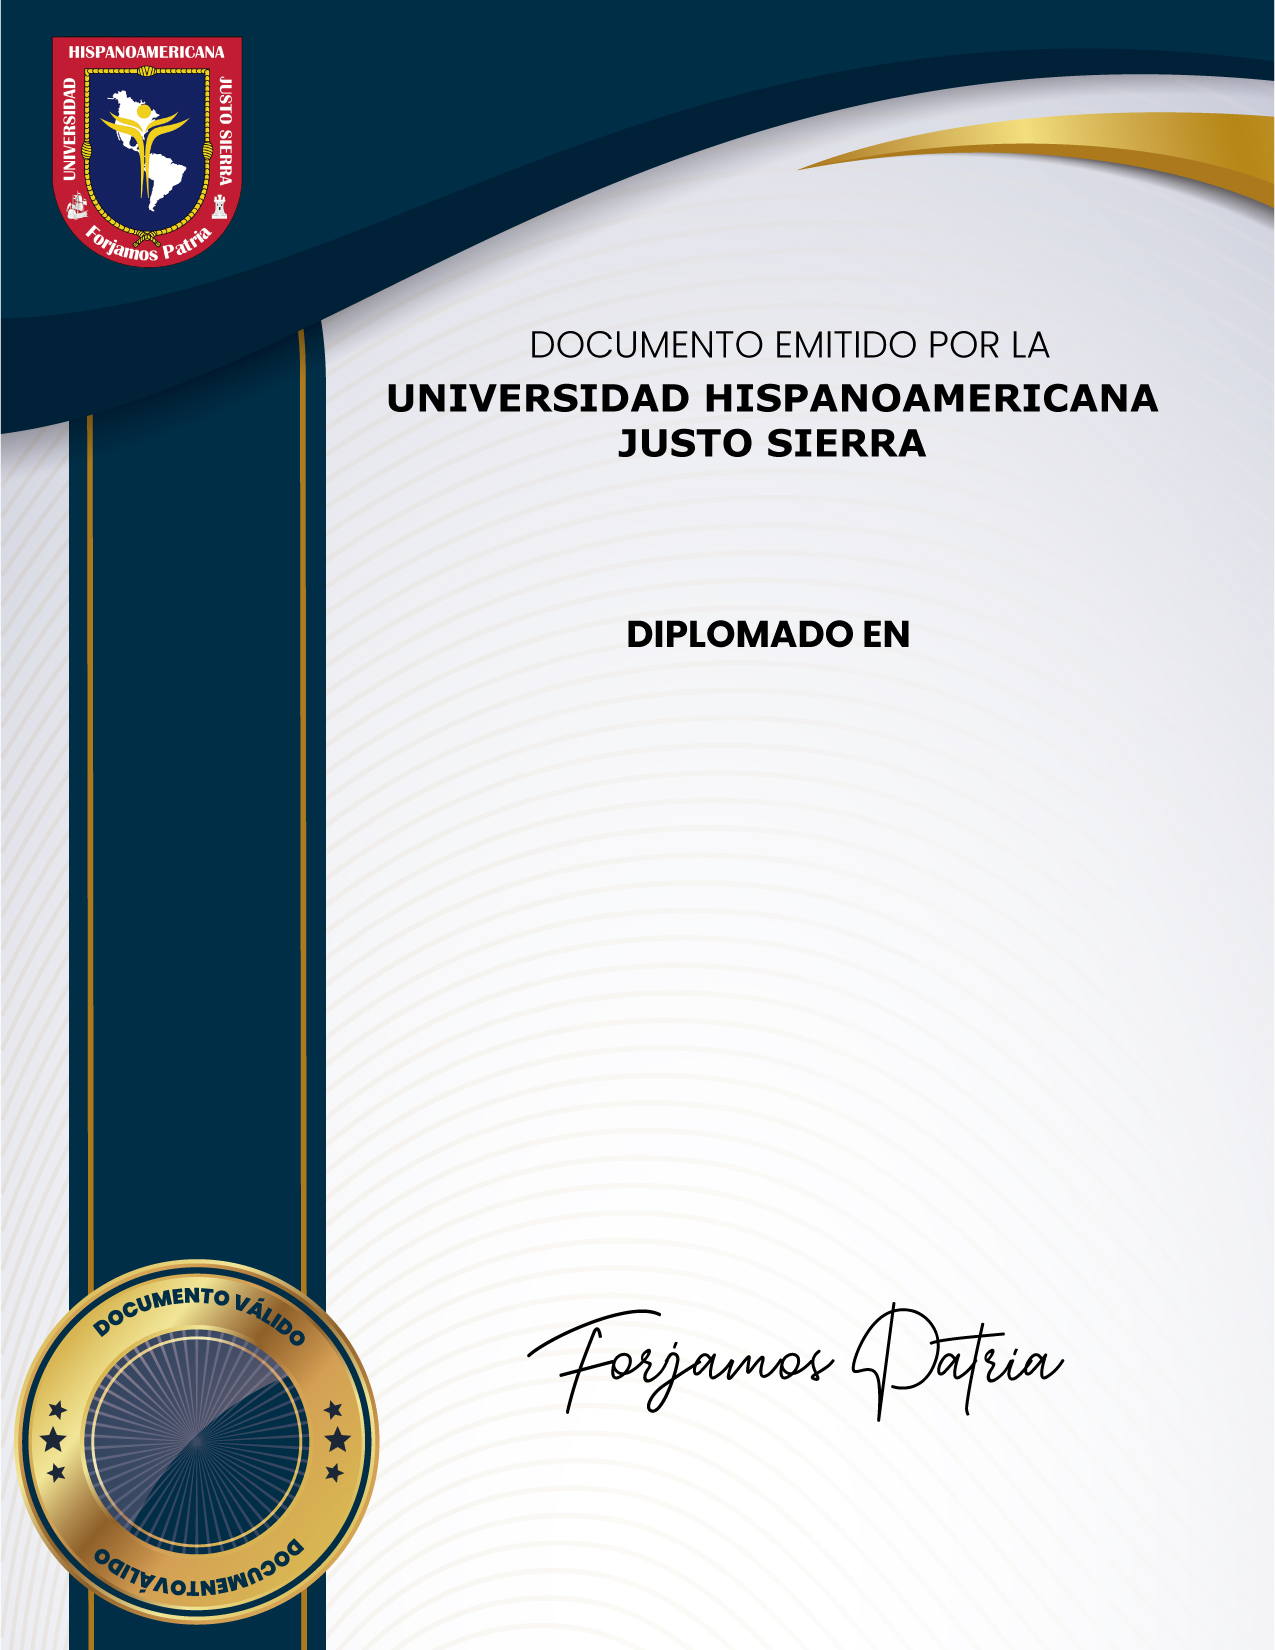
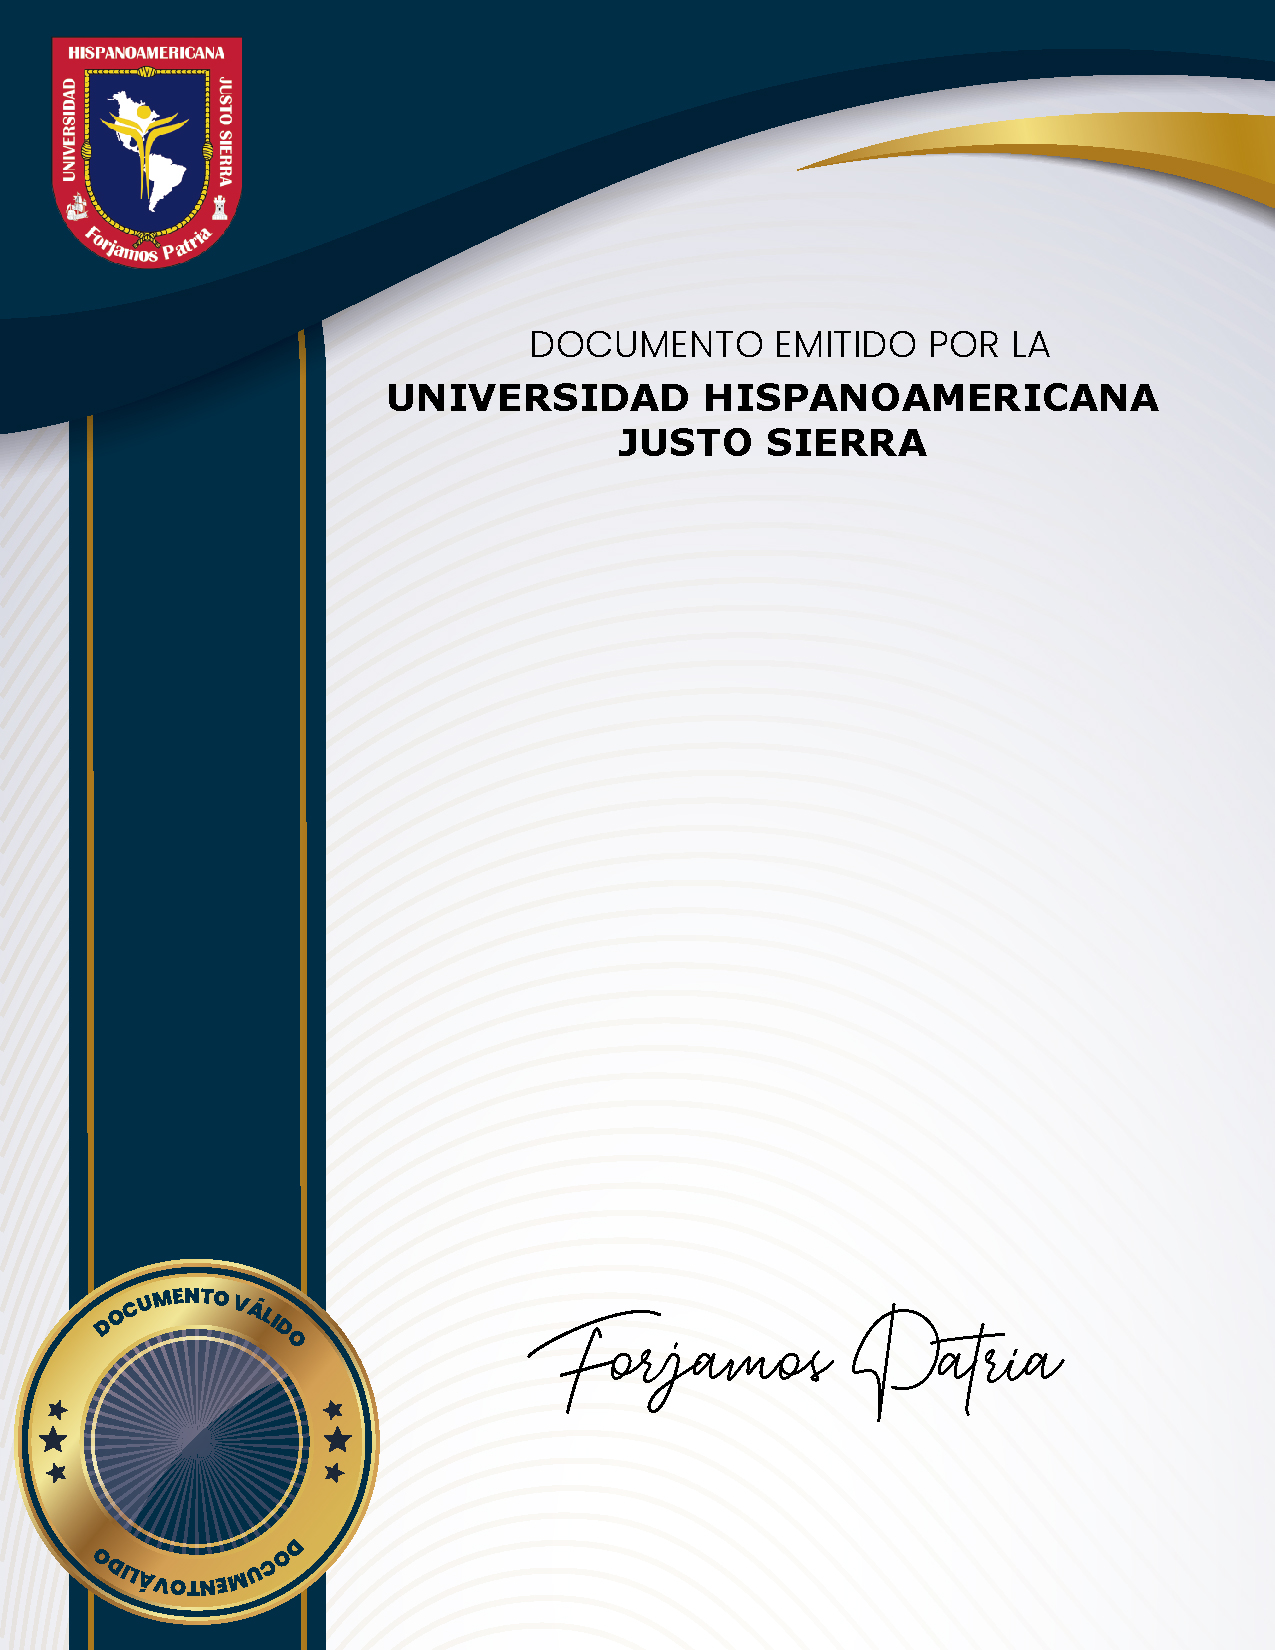
Actualización miercoles 9 ago

diff --git a/assets/css/prueba.css b/assets/css/prueba.css
@@ -27,9 +27,8 @@ p{
     font-size: 115%;
 }
 
-.tablas h3{
+.Primero h3{
     color: white;
-    margin-top: 40px;
     display: flex;
     align-items: center;
     justify-content: center;

diff --git a/libreria/font/Poppins-Bold.php b/libreria/font/Poppins-Bold.php
@@ -1,0 +1,25 @@
+<?php
+$type = 'TrueType';
+$name = 'Poppins-Bold';
+$desc = array('Ascent'=>1050,'Descent'=>-350,'CapHeight'=>705,'Flags'=>32,'FontBBox'=>'[-562 -606 2477 1108]','ItalicAngle'=>0,'StemV'=>120,'MissingWidth'=>500);
+$up = -75;
+$ut = 50;
+$cw = array(
+	chr(0)=>500,chr(1)=>500,chr(2)=>500,chr(3)=>500,chr(4)=>500,chr(5)=>500,chr(6)=>500,chr(7)=>500,chr(8)=>500,chr(9)=>500,chr(10)=>500,chr(11)=>500,chr(12)=>500,chr(13)=>500,chr(14)=>500,chr(15)=>500,chr(16)=>500,chr(17)=>500,chr(18)=>500,chr(19)=>500,chr(20)=>500,chr(21)=>500,
+	chr(22)=>500,chr(23)=>500,chr(24)=>500,chr(25)=>500,chr(26)=>500,chr(27)=>500,chr(28)=>500,chr(29)=>500,chr(30)=>500,chr(31)=>500,' '=>212,'!'=>392,'"'=>411,'#'=>904,'$'=>658,'%'=>870,'&'=>798,'\''=>221,'('=>477,')'=>477,'*'=>534,'+'=>628,
+	','=>287,'-'=>580,'.'=>282,'/'=>453,'0'=>652,'1'=>376,'2'=>571,'3'=>605,'4'=>677,'5'=>650,'6'=>637,'7'=>535,'8'=>648,'9'=>615,':'=>284,';'=>347,'<'=>551,'='=>696,'>'=>541,'?'=>538,'@'=>1080,'A'=>737,
+	'B'=>659,'C'=>762,'D'=>727,'E'=>541,'F'=>547,'G'=>762,'H'=>731,'I'=>295,'J'=>578,'K'=>697,'L'=>477,'M'=>918,'N'=>752,'O'=>786,'P'=>624,'Q'=>788,'R'=>652,'S'=>615,'T'=>591,'U'=>705,'V'=>730,'W'=>1052,
+	'X'=>715,'Y'=>671,'Z'=>596,'['=>510,'\\'=>802,']'=>510,'^'=>709,'_'=>780,'`'=>291,'a'=>679,'b'=>679,'c'=>605,'d'=>679,'e'=>616,'f'=>360,'g'=>679,'h'=>674,'i'=>295,'j'=>294,'k'=>618,'l'=>295,'m'=>1059,
+	'n'=>674,'o'=>637,'p'=>679,'q'=>679,'r'=>428,'s'=>558,'t'=>406,'u'=>674,'v'=>626,'w'=>866,'x'=>588,'y'=>632,'z'=>496,'{'=>499,'|'=>291,'}'=>499,'~'=>636,chr(127)=>500,chr(128)=>796,chr(129)=>500,chr(130)=>292,chr(131)=>336,
+	chr(132)=>520,chr(133)=>760,chr(134)=>654,chr(135)=>654,chr(136)=>330,chr(137)=>1179,chr(138)=>615,chr(139)=>337,chr(140)=>1063,chr(141)=>500,chr(142)=>596,chr(143)=>500,chr(144)=>500,chr(145)=>314,chr(146)=>314,chr(147)=>541,chr(148)=>541,chr(149)=>501,chr(150)=>695,chr(151)=>930,chr(152)=>410,chr(153)=>883,
+	chr(154)=>558,chr(155)=>337,chr(156)=>1041,chr(157)=>500,chr(158)=>496,chr(159)=>671,chr(160)=>212,chr(161)=>392,chr(162)=>631,chr(163)=>663,chr(164)=>577,chr(165)=>671,chr(166)=>381,chr(167)=>587,chr(168)=>367,chr(169)=>779,chr(170)=>469,chr(171)=>557,chr(172)=>717,chr(173)=>580,chr(174)=>514,chr(175)=>420,
+	chr(176)=>463,chr(177)=>629,chr(178)=>383,chr(179)=>374,chr(180)=>261,chr(181)=>705,chr(182)=>708,chr(183)=>299,chr(184)=>313,chr(185)=>249,chr(186)=>458,chr(187)=>557,chr(188)=>786,chr(189)=>821,chr(190)=>891,chr(191)=>538,chr(192)=>737,chr(193)=>737,chr(194)=>737,chr(195)=>737,chr(196)=>737,chr(197)=>737,
+	chr(198)=>955,chr(199)=>762,chr(200)=>541,chr(201)=>541,chr(202)=>541,chr(203)=>541,chr(204)=>295,chr(205)=>295,chr(206)=>295,chr(207)=>295,chr(208)=>732,chr(209)=>752,chr(210)=>786,chr(211)=>786,chr(212)=>786,chr(213)=>786,chr(214)=>786,chr(215)=>637,chr(216)=>786,chr(217)=>705,chr(218)=>705,chr(219)=>705,
+	chr(220)=>705,chr(221)=>671,chr(222)=>624,chr(223)=>760,chr(224)=>679,chr(225)=>679,chr(226)=>679,chr(227)=>679,chr(228)=>679,chr(229)=>679,chr(230)=>1069,chr(231)=>605,chr(232)=>616,chr(233)=>616,chr(234)=>616,chr(235)=>616,chr(236)=>321,chr(237)=>321,chr(238)=>321,chr(239)=>321,chr(240)=>640,chr(241)=>674,
+	chr(242)=>637,chr(243)=>637,chr(244)=>637,chr(245)=>637,chr(246)=>637,chr(247)=>611,chr(248)=>629,chr(249)=>674,chr(250)=>674,chr(251)=>674,chr(252)=>674,chr(253)=>632,chr(254)=>679,chr(255)=>632);
+$enc = 'cp1252';
+$uv = array(0=>array(0,128),128=>8364,130=>8218,131=>402,132=>8222,133=>8230,134=>array(8224,2),136=>710,137=>8240,138=>352,139=>8249,140=>338,142=>381,145=>array(8216,2),147=>array(8220,2),149=>8226,150=>array(8211,2),152=>732,153=>8482,154=>353,155=>8250,156=>339,158=>382,159=>376,160=>array(160,96));
+$file = '../fuentes/Poppins-Bold.z';
+$originalsize = 17436;
+$subsetted = true;
+?>

diff --git a/Validacion.php b/Validacion.php
@@ -37,24 +37,20 @@ include 'config/conexion_bd.php';
                 <p class="texto">El presente portal te permite validar y consultar el contenido de las constancias emitidas por la UHJS
                                 en cualquiera de sus Oficinas Registrales.</p>
             </div>
-            <div class="bajar">
-                <a href="#tablas" class="btn btn-lg btn-margin-righ btn-info">Consultar/Validacion Constancia</a>
+            <div class="container">
+                <div class="col-auto text-center" >
+                    <div class="w-50 row justify-content-center m-auto">
+                        <h3>Consulta/Validación Constancia</h3>
+                        <p class="texto">Para consultar/validar una constancia deberá ingresar el folio de la constancia.</p>
+                        <form action="" method="get" class="search-bar">
+                            <input class="" type="text" onkeyup="this.value=Numeros(this.value)" placeholder="Ingresar Folio..." name="busqueda">
+                            <button type="submit" name="enviar" value=""><i class="fa-solid fa-magnifying-glass"></i></button>
+                        </form> 
+                    </div>
+                </div>
             </div>
         </div>
-    </section>
-    <section class="tablas" id="tablas">
-    <div class="container">
-        <div class="col-auto p-5 text-center" >
-            <div class="w-50 row justify-content-center m-auto">
-                    <h3>Consulta/Validación Constancia</h3>
-                    <p class="texto">Para consultar/validar una constancia deberá ingresar el folio de la constancia.</p>
-                    <form action="" method="get" class="search-bar">
-                        <input class="" type="text" placeholder="Ingresar Folio..." name="busqueda">
-                        <button type="submit" name="enviar" value=""><i class="fa-solid fa-magnifying-glass"></i></button>
-                    </form> 
-                </div>
-        </div>
-        </div>
+    </section>   
         <?php
 
     if(isset($_GET['enviar'])){
@@ -107,13 +103,27 @@ include 'config/conexion_bd.php';
                             ?>
                             <div class="col-auto p-5 text-center">
                                 <div class="w-50 row justify-content-center m-auto">
-                                    <div class="alert alert-danger "><i class="fa-solid fa-xmark fa-beat"></i> No se encontró el folio</div>
+                                    <div class="alert alert-danger "><i class="fa-solid fa-xmark fa-beat"></i> Este número de folio no se encuentra registrada</div>
                                 </div>
                             </div>
                             <?php
                         }
                     }   
                         ?>
-    </section>
+                        <script>
+                           function Numeros(string){//Solo numeros
+                                var out = '';
+                                var filtro = '1234567890';//Caracteres validos
+                                
+                                //Recorrer el texto y verificar si el caracter se encuentra en la lista de validos 
+                                for (var i=0; i<string.length; i++)
+                                if (filtro.indexOf(string.charAt(i)) != -1) 
+                                        //Se añaden a la salida los caracteres validos
+                                    out += string.charAt(i);
+                                
+                                //Retornar valor filtrado
+                                return out;
+                            }
+                        </script>
 </body>
 </html>

diff --git a/index.php b/index.php
@@ -45,10 +45,10 @@ if($varsesion == null || $varsesion=''){
             <div class="mt-5">
                 <div class="shadow card text-end border-light mb-3">
                     <div class="card-body">
-                <a href="#" class="btn btn-outline-dark me-1" data-bs-toggle="modal" data-bs-target="#programasModal" >
-                        <i class="me-2 fa-solid fa-circle-plus"></i> Registrar Programa</a>
                 <a href="#" class="btn btn-outline-primary me-1" data-bs-toggle="modal" data-bs-target="#alumnosModal" >
                         <i class="me-2 fa-solid fa-circle-plus"></i> Registrar alumno</a>
+                <a href="#" class="btn btn-outline-dark me-1" data-bs-toggle="modal" data-bs-target="#programasModal" >
+                        <i class="me-2 fa-solid fa-circle-plus"></i> Registrar Programa</a>
                     </div>
                 </div>
             <div class="card">
@@ -63,6 +63,7 @@ if($varsesion == null || $varsesion=''){
                         <th class="sort" style="text-align: center;" data-sort="apellidoPaterno">Apellido Paterno</th>
                         <th class="sort" style="text-align: center;" data-sort="apellidoMaterno">Apellido Materno</th>
                         <th class="sort" style="text-align: center;" data-sort="correo">Correo</th>
+                        <th class="sort" style="text-align: center;" data-sort="categoria">Categoría</th>
                         <th class="sort" style="text-align: center;" data-sort="programa">Curso</th>
                         <th class="sort" style="text-align: center;" data-sort="duracion">Duracion</th>
                         <th class="sort" style="text-align: center;" data-sort="fechaInicio">Fecha Inicio</th>
@@ -93,6 +94,7 @@ if($varsesion == null || $varsesion=''){
                         <td class="dato" data-sort="apellidoPaterno"><?php echo ucwords($resultado['apellidoPaterno']) ?></td>
                         <td class="dato" data-sort="apellidoMaterno"><?php echo ucwords($resultado['apellidoMaterno']) ?></td>
                         <td class="dato" data-sort="correo"><?php echo $resultado['correo'] ?></td>
+                        <td class="dato" align="center" data-sort="categoria"><?php echo ucfirst($resultado['categoria']) ?></td>
                         <td class="dato" align="center" data-sort="nombrePrograma"><?php echo ucfirst($resultado['nombrePrograma']) ?></td>
                         <td class="dato" align="center" data-sort="duracion"><?php echo $resultado['duracion']." Horas" ?></td>
                         <td class="dato" align="center" data-sort="fechaInicio"><?php echo $inicioCambio ?></td>

diff --git a/modulo/guardarProgramas.php b/modulo/guardarProgramas.php
@@ -4,6 +4,7 @@ require '../config/conexion_bd.php';
 
 //Valores para guardar los datos del modal en la tabla Programas
 $nombrePrograma = $_POST['nombrePrograma'];
+$categoria = $_POST['categoria'];
 $duracion = $_POST['duracion'];
 $fechaInicio = $_POST['fechaInicio'];
 $fechaFin = $_POST['fechaFin'];
@@ -12,12 +13,14 @@ $fechaFin = $_POST['fechaFin'];
 
 $QueryInsert = ("INSERT INTO programas(
                 nombrePrograma,
+                categoria,
                 duracion,
                 fechaInicio,
                 fechaFin
                 )
                 VALUES (
                 '".$nombrePrograma."',
+                '".$categoria."',
                 '".$duracion."',
                 '".$fechaInicio."',
                 '".$fechaFin."'

diff --git a/libreria/Certificado.php b/libreria/Certificado.php
@@ -19,12 +19,18 @@ $finCambio = date("d/m/y", strtotime($fechaFin));
 //Guardar la imagen en una variable
 $imagen = "certificado.jpg";
 //Inicio del pdf 
+//
 $fpdf = new FPDF();
 $fpdf->AddPage('PORTRAIT', 'letter');
 $fpdf->Image($imagen, 0, 0, 220,0);
+$fpdf->AddFont('Poppins-Bold','','Poppins-Bold.php');
+$fpdf->SetFont('Poppins-Bold','', 20);
+$fpdf->Ln(90);
+$fpdf->Cell(50,10,"",0,0,'C');
+$fpdf->MultiCell(150,10,utf8_decode(strtoupper($fila['categoria']))." EN",0,'C');
+$fpdf->Ln(0);
 $fpdf->AddFont('Poppins-ThinItalic','','Poppins-Medium.php');
 $fpdf->SetFont('Poppins-ThinItalic','', 16);
-$fpdf->Ln(105);
 $fpdf->Cell(50,10,"",0,0,'C');
 $fpdf->MultiCell(150,10,utf8_decode(ucwords($fila['nombrePrograma'])),0,'C');
 $fpdf->Ln(10);

diff --git a/programasModal.php b/programasModal.php
@@ -13,6 +13,10 @@
                 <input type="text" name="nombrePrograma" id="nombrePrograma" class="form-control" required>
             </div>
             <div class="mb-3">
+                <label for="categoria" class="form-label">Categoría:</label>
+                <input type="text" name="categoria" id="categoria" class="form-control" required>
+            </div>
+            <div class="mb-3">
                 <label for="duracion" class="form-label">Duracion:</label>
                 <input type="number" name="duracion" id="duracion" class="form-control" required>
             </div>
